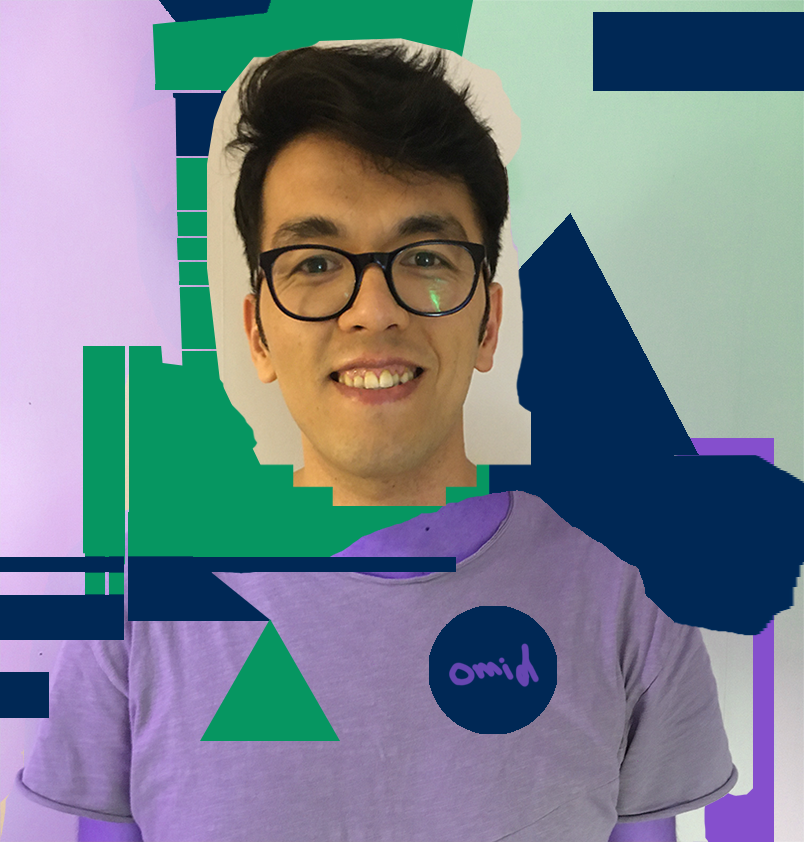
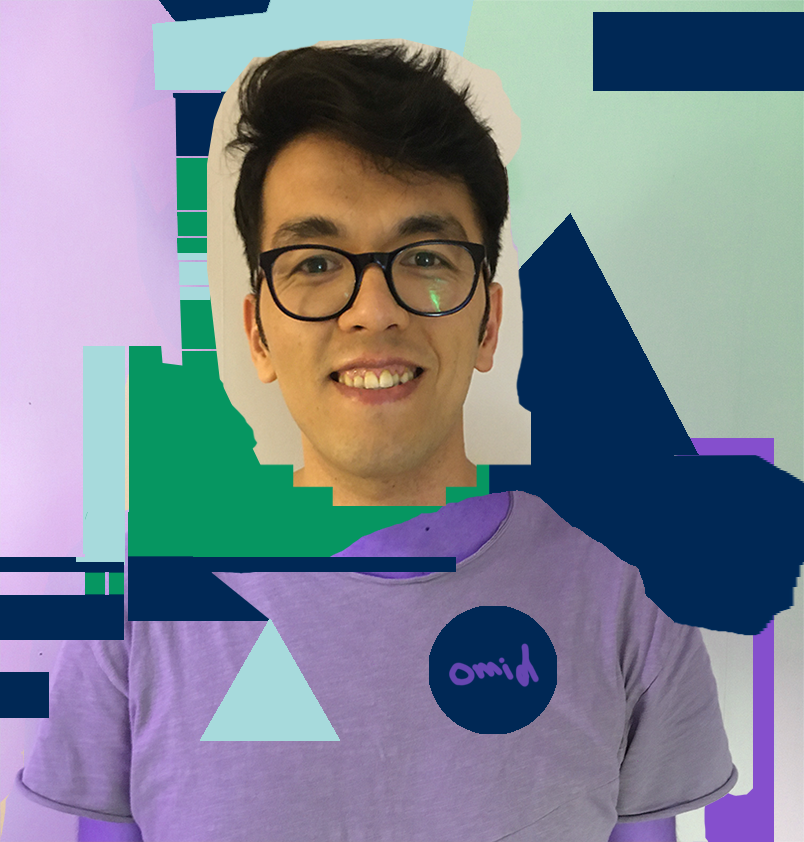
done for the day

diff --git a/styles/style.css b/styles/style.css
@@ -18,7 +18,7 @@
     --dark-bg: #001233;
     --dark-color: #1D3557;
     --medium-color: #457b9d;
-    --light-color: #a8dadc;
+    --light-color: #a7dadc;
     --white-color: rgb(241, 250, 238);
 }
 
@@ -458,17 +458,20 @@ footer a{
     padding: 4rem 2rem 2rem 3rem;
     color: var(--light-color);
 }
-.modal div a{
+.modal a{
     display: inline;
     border-bottom: 1px dashed var(--light-color);
 }
-.modal div a:hover{
+.modal a:hover{
     color: var(--white-color);
     border-bottom-color: var(--white-color);
 }
-.modal div h3{
+.modal h3{
     font-size: 2.2rem;
     color: var(--white-color);
+}
+.modal strong, .modal p{
+    font-size: 1.6rem;
 }
 *::-webkit-scrollbar-track{
     box-shadow: inset 0 0 5px var(--dark-bg);
@@ -507,15 +510,34 @@ div.social-contact a{
     color: var(--dark-color);
 }
 .light-mode main{
-    background-color: #7ac5ce;
+    background-color: #91ced5;
     color: var(--dark-bg);
 }
 
 .light-mode a, .light-mode #cli input, .light-mode #cli label, .light-mode .tagline, .light-mode .modal div, .light-mode .modal div h3, .light-mode .top-bar{
     color: var(--dark-bg);
 }
+.light-mode a{
+    text-decoration: underline;
+}
+.light-mode nav a{
+    text-decoration: none;
+}
 .light-mode a:hover, .light-mode a:active, .light-mode a.current, .light-mode a:focus{
-    color: var(--medium-color)
+    color: var(--medium-color);
+    text-decoration: none;
+}
+.light-mode nav .icon::after{
+    color:var(--white-color);
+    background:var(--dark-color);
+}
+.light-mode .modal{
+    scrollbar-color: var(--medium-color) var(--light-color) ;
+}
+.light-mode .modal div a:hover{
+    color: var(--medium-color);
+    border-bottom:none;
+    text-decoration: none;
 }
 
 
@@ -589,6 +611,7 @@ div.social-contact a{
     }
     .log p{
         font-size: 1.4rem;
+        margin: 2rem 0 3rem;
     }
     .log a{
         font-size: 1.4rem;

diff --git a/script/app.js b/script/app.js
@@ -164,13 +164,14 @@ window.onload = function() {
             case "clear":
                 outputDiv.firstElementChild.innerHTML = "";
                 break;
-                case "help":
-                case "ls":
-                para.innerHTML = "<strong>about</strong> &ensp; prints a short introduction of me" +
-                "<br><strong>help</strong> &ensp;&ensp; shows this message. An overview of all the commands." +
-                "<br><strong>work</strong> &ensp;&ensp;&ensp;&ensp; a list of some of my previous works"+
-                "<br><br>Some more commands:  &ensp;&ensp;&ensp;&ensp; 'light mode'  &ensp;&ensp;&ensp;&ensp; 'dark mode'  &ensp;&ensp;&ensp;&ensp; 'cv'  &ensp;&ensp;&ensp;&ensp; 'fun'  &ensp;&ensp;&ensp;&ensp; 'svenska'  &ensp;&ensp;&ensp;&ensp; 'farsi'  &ensp;&ensp;&ensp;&ensp; 'secret'"
-                ;
+            case "help":
+            case "ls":
+                para.innerHTML = "&#x7B;*For more visual content please click through the icons on the left side in your desktop browser*&#x7D;" + 
+                "<br /><br /><strong>help</strong> &#x2E3A;&#xFF1E; shows this message. An overview of all the commands." +
+                "<br><strong>about</strong> &#x2E3A;&#xFF1E; prints a short introduction of me" +
+                "<br><strong>ls</strong> &#x2E3A;&#xFF1E; prints all the commands without the descriptions." +
+                "<br><strong>work</strong> &#x2E3A;&#xFF1E; a list of some of my previous works"+
+                "<br><br>More commands:<br /> light mode  &#x2016; dark mode  &#x2016; cv  &#x2016; fun  &#x2016; svenska  &#x2016; farsi  &#x2016; secret";
                 break;
             default:
                 para.innerHTML = "<strong>Error:</strong> &ensp;<i>'" + 

diff --git a/index.html b/index.html
@@ -176,7 +176,7 @@
             </div>
 
             <form id="cli">
-                <label for="command-input">omid.haqbin@gmail.com ~ %</label>
+                <label for="command-input">omid.haqbin@gmail.com &#x2053; %</label>
                 <input id="command-input" autofocus="autofocus" type="text" autocomplete="off" placeholder="_">
                 <button id="submit">Submit</button>
             </form>
